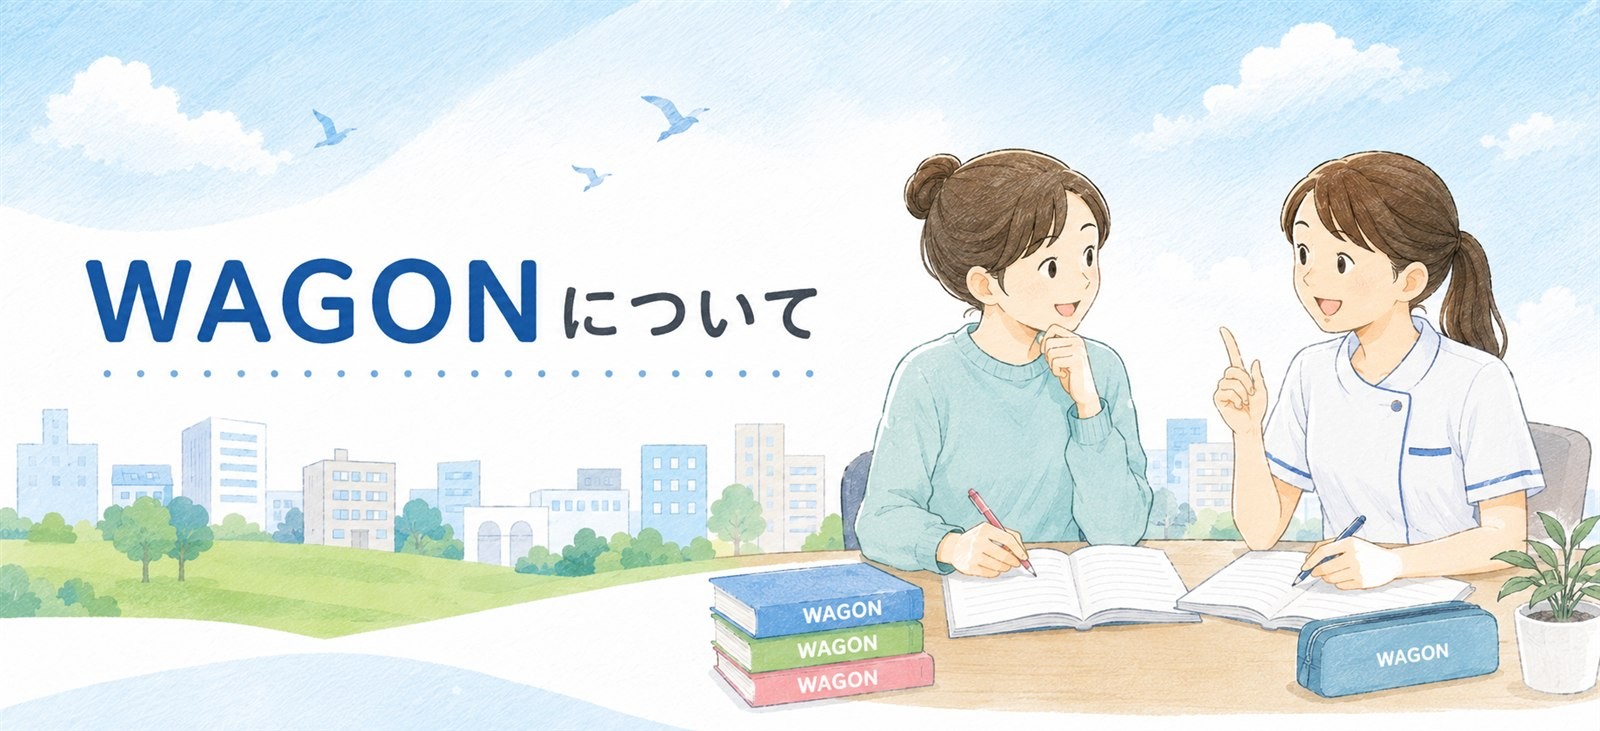
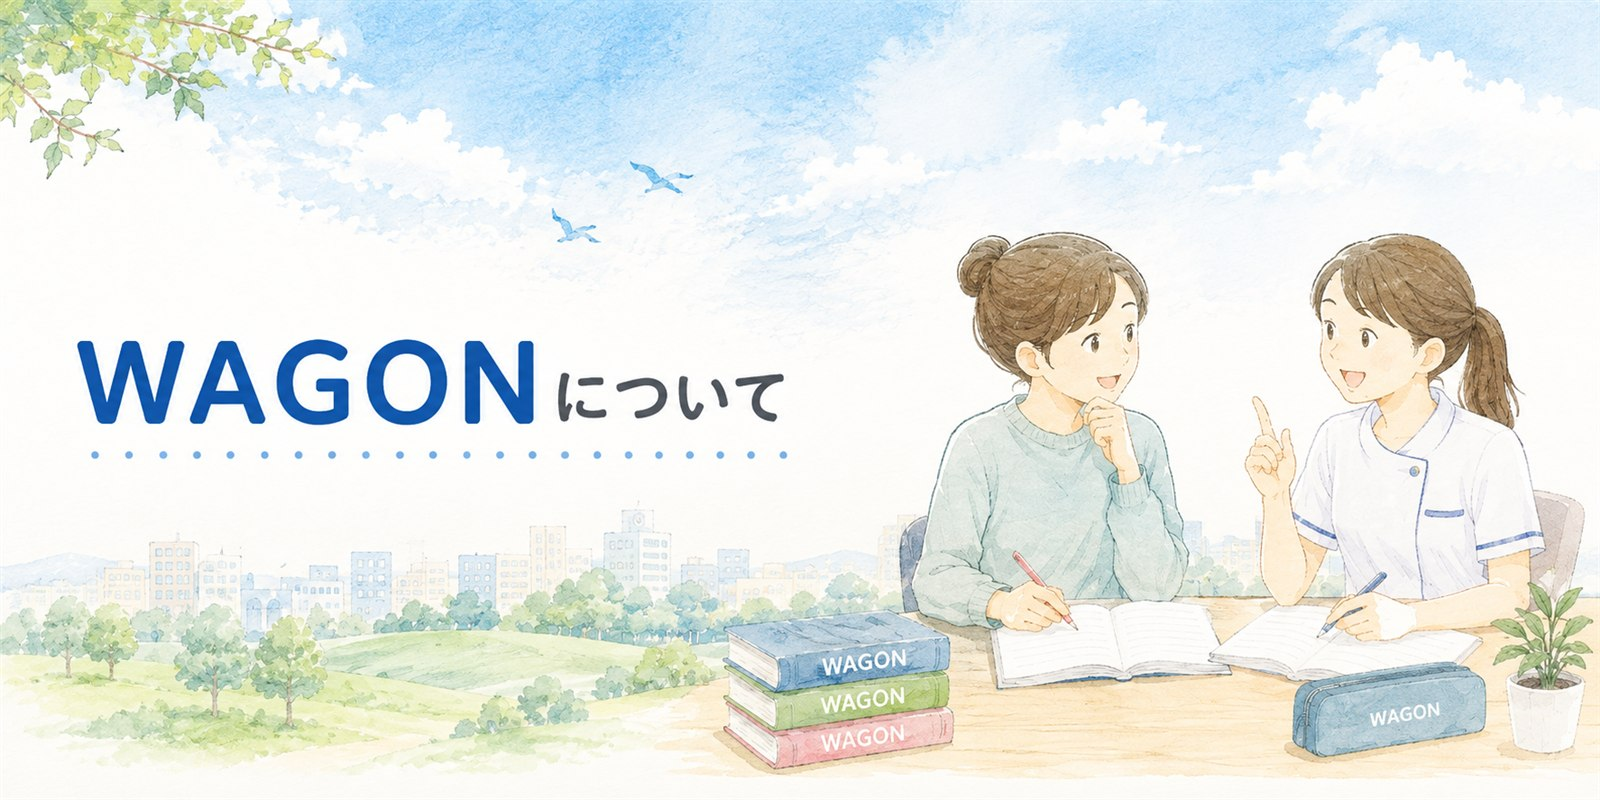
about.htmlのヒーロー画像を更新版(2:1比率)に差し替え

diff --git a/site/about.html b/site/about.html
@@ -42,7 +42,7 @@
   .info-table tr:first-child td{ border-top:none; }
   .page-hero.custom-img{
     background:url('/assets/img/about-hero.jpg') center/cover no-repeat;
-    aspect-ratio:1600/731; padding:0; max-width:1600px; margin:0 auto 40px;
+    aspect-ratio:1600/800; padding:0; max-width:1600px; margin:0 auto 40px;
   }
   .page-hero.custom-img::before, .page-hero.custom-img::after{ content:none; }
   .page-hero-sub{ text-align:center; font-size:14px; color:var(--ink-soft); max-width:56ch; margin:18px auto 0; }
